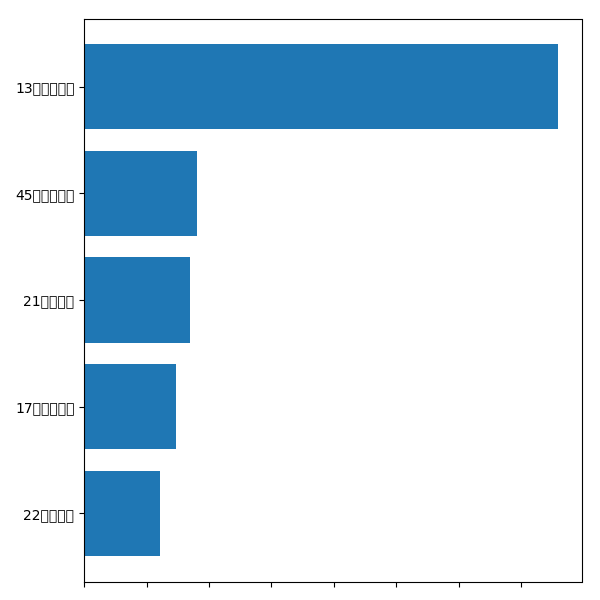
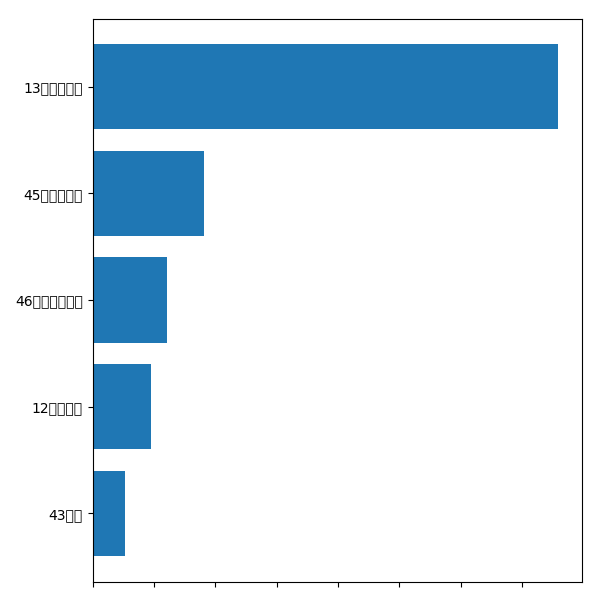
棒グラフを、職業カテゴリ毎に１職種表示されるように修正。

diff --git a/create_graph.py b/create_graph.py
@@ -12,8 +12,24 @@ from matplotlib.projections.polar import PolarAxes
 from matplotlib.projections import register_projection
 from matplotlib import rcParams
 
+# setting for matplotlib
 rcParams['font.family'] = 'IPAexGothic'
 rcParams.update({'figure.autolayout': True})
+
+
+# load job_category
+with open('job_category.csv', 'r') as f:
+	job_category_list = f.readlines()
+	# job_category_list = [(j.split('\t')[0], j.split('\t')[2]) for j in job_category_list]
+	job_category_index = {}
+	for job_category in job_category_list:
+		job_category = job_category.split(',')
+		job_name = ''.join([job_category[0], job_category[1]])
+		if job_category[1] in job_category_index.keys():
+			job_category_index[job_category[2]] += [job_name]
+		else:
+			job_category_index[job_category[2]] = [job_name]
+print(job_category_index)
 
 BAR_IMG = 'bar.png'
 RADAR_IMG = 'radar.png'
@@ -179,8 +195,26 @@ def create_radarchart(dream_data):
 		# return ax
 
 
+def reranking(rank_list):
+	rerank_list = []
+	job_category = job_category_index
+	job_category_items = [j for j in job_category.items()]
+	# print(type(job_category_items))
+
+	for r in rank_list:
+		for j in job_category_items:
+			if r['no'] in j[1]:
+				rerank_list.append(r)
+				job_category_items.remove(j)
+				break
+
+	return rerank_list
+
+
 def create_graph(result):
-	create_bar(result['rank'])
+	rerank_list = reranking(result['rank'])
+
+	create_bar(rerank_list)
 	create_radarchart(result['dream'])
 	bar_img = cv2.imread(BAR_IMG)
 	radar_img = cv2.imread(RADAR_IMG)
